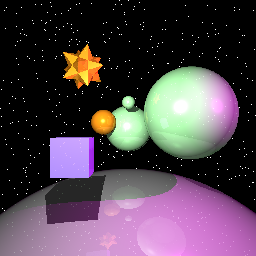
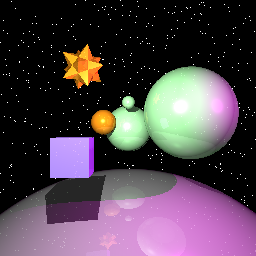
final commit before project imp

diff --git a/A4/GeometryNode.cpp b/A4/GeometryNode.cpp
@@ -42,39 +42,33 @@ void GeometryNode::hitTest(const Ray &r, HitInformation &hit_info) {
         if (!hit_info.hit) {
             hit_info.hit = true;
             hit_info.t = prim_hit_info.t;
-            
-            glm::mat3 inv = glm::mat3(inverse_world_mat);
-            
-            hit_info.normal = glm::vec4((glm::transpose(inv) * glm::vec3(prim_hit_info.normal)),0);
+//            glm::mat3 inv = glm::mat3(inverse_world_mat);
+//            hit_info.normal = glm::vec4((glm::transpose(inv) * glm::vec3(prim_hit_info.normal)),0);
+            hit_info.normal = prim_hit_info.normal;
             hit_info.node = this;
             hit_info.phong_mat = (PhongMaterial*) m_material;
+            hit_info.hit_point = prim_hit_info.hit_point;
         } else {
             if (prim_hit_info.t < hit_info.t) {
                 hit_info.t = prim_hit_info.t;
-                glm::mat3 inv = glm::mat3(inverse_world_mat);
-                hit_info.normal = glm::vec4((glm::transpose(inv) * glm::vec3(prim_hit_info.normal)),0);
+//                glm::mat3 inv = glm::mat3(inverse_world_mat);
+//                hit_info.normal = glm::vec4((glm::transpose(inv) * glm::vec3(prim_hit_info.normal)),0);
+                hit_info.normal = prim_hit_info.normal;
                 hit_info.node = this;
                 hit_info.phong_mat = (PhongMaterial*) m_material;
+                hit_info.hit_point = prim_hit_info.hit_point;
             }
         }
     }
-    
-//    if(prim_hit_info.hit and prim_hit_info.t > 0 and prim_hit_info.t < hit_info.t) {
-//        hit_info.node = this;
-//        hit_info.hit = true;
-//        hit_info.t = prim_hit_info.t;
-//        hit_info.normal = prim_hit_info.normal;
-//        hit_info.hit_point = prim_hit_info.hit_point;
-//        hit_info.phong_mat = (PhongMaterial*) m_material;
-//    }
+
     
     for (SceneNode* child : children) {
         child->hitTest(transformed_ray, hit_info);
     }
 
     if (hit_info.hit) {
-//        hit_info.hit_point = trans * hit_info.hit_point;
-//        glm::mat3 inverse = glm::mat3(invtrans);
-//        hit_info.normal = glm::vec4((glm::transpose(inverse) * glm::vec3(hit_info.normal)),0);
+        hit_info.hit_point = trans * hit_info.hit_point;
+        glm::mat3 inverse = glm::mat3(invtrans);
+        hit_info.normal = glm::normalize(glm::vec4((glm::transpose(inverse) * glm::vec3(hit_info.normal)),0));
     }
 }

diff --git a/A4/A4.cpp b/A4/A4.cpp
@@ -189,7 +189,8 @@ Color rayColor(const Ray& r, const std::list<Light *> & lights, int counter) {
                 glm::vec4 reflected_direction = hit_info.incident_ray.direction -
                                                 (2 * glm::dot(hit_info.incident_ray.direction, hit_info.normal) * hit_info.normal);
                 glm::vec4 intersection_point = hit_info.incident_ray.origin + (hit_info.t * hit_info.incident_ray.direction);
-                
+//                glm::vec4 intersection_point = hit_info.hit_point;
+
                 Ray reflected_ray = Ray(intersection_point, reflected_direction);
                 
                 col += hit_info.phong_mat->m_ks * rayColor(reflected_ray, lights, counter) * hit_info.phong_mat->m_shininess/120;
@@ -240,7 +241,7 @@ Color directLight(const std::list<Light *>& lights, HitInformation& hit_info, in
     for (const Light* light : lights) {
         light_position = glm::vec4(light->position, 1);
         
-        shadow_ray_direction = glm::normalize(light_position - intersection_point);
+        shadow_ray_direction = (light_position - intersection_point);
         shadow_ray_origin = intersection_point;
         
 

diff --git a/A4/Primitive.cpp b/A4/Primitive.cpp
@@ -82,6 +82,7 @@ void NonhierSphere::hitTest(const Ray &r, HitInformation& hit_info) {
         hit_info.t = min_t;
         hit_info.hit = hit;
         hit_info.normal = glm::normalize(((r.origin + min_t * r.direction) - glm::vec4(m_pos,1)));
+        hit_info.hit_point = r.origin + ((min_t - 0.01) * r.direction);
 //        if ((r.origin - glm::vec4(m_pos,1)).length() < m_radius) {
 //            hit_info.normal = -hit_info.normal;
 //        }
@@ -144,6 +145,7 @@ void NonhierBox::hitTest(const Ray &r, HitInformation& hit_info) {
         hit_info.t = min_t;
         hit_info.hit = true;
         hit_info.normal = glm::normalize(normal);
+        hit_info.hit_point = r.origin + ((min_t - 0.01) * r.direction);
     }
 }
 

diff --git a/A4/SceneNode.cpp b/A4/SceneNode.cpp
@@ -146,9 +146,9 @@ void SceneNode::hitTest(const Ray& r, HitInformation& hit_info){
     }
     
     if (hit_info.hit) {
-//        hit_info.hit_point = trans * hit_info.hit_point;
-//        glm::mat3 inverse = glm::mat3(invtrans);
-//        hit_info.normal = glm::vec4((glm::transpose(inverse) * glm::vec3(hit_info.normal)),0);
+        hit_info.hit_point = trans * hit_info.hit_point;
+        glm::mat3 inverse = glm::mat3(invtrans);
+        hit_info.normal = glm::normalize(glm::vec4((glm::transpose(inverse) * glm::vec3(hit_info.normal)),0));
     }
 }
 

diff --git a/A4/Mesh.cpp b/A4/Mesh.cpp
@@ -71,5 +71,6 @@ void Mesh::hitTest(const Ray &r, HitInformation &hit_info) {
         hit_info.t = min_t;
         hit_info.hit = true;
         hit_info.normal = glm::normalize(normal);
+        hit_info.hit_point = r.origin + ((min_t - 0.01) * r.direction);
     }
 }
